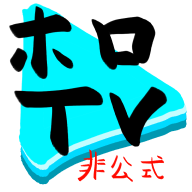
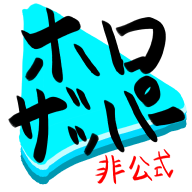
holozap

diff --git a/holo-tv/index.html b/holo-tv/index.html
@@ -5,7 +5,7 @@
 <link rel="apple-touch-icon" href="icon.png">
     <meta charset="UTF-8">
     <meta name="viewport" content="width=device-width, initial-scale=1.0, maximum-scale=1.0, user-scalable=no, viewport-fit=cover">
-    <title>ホロメンTV ver1.0.5|非公式ホロライブJPメンバー専用TV風アプリ</title>
+    <title>ホロメンザッパー ver1.0.7|試験アプデ継続中|非公式ホロライブJPメンバー専用TV風アプリ</title>
     <meta name="description" content="hololiveJPメンバーに限定したシンプル非公式TV風アプリ。視聴と番組表機能。">
 <style>
         :root {
@@ -125,8 +125,10 @@
             height: 100px; background: #200; border-bottom: 2px solid #f33; padding: 8px; font-size: 10px; cursor: pointer;
             overflow: hidden; display: flex; align-items: center; justify-content: center; text-align: center; font-weight: bold;
         }
-        .now-stream-box.member { background: #003311; border-bottom-color: #00ff66; color: #00ff66; }
-        .now-stream-box.empty { background: #111; border-bottom-color: #333; color: #444; }
+        .now-stream-box.member { background: #003311; border-bottom-color: #00ff66;  }
+        .now-stream-box.singing { background: #33001a; border-bottom-color: #ff69b4;  }
+        .now-stream-box.live3d { background: #332a00; border-bottom-color: #ffd700;  }
+        .now-stream-box.empty { background: #111; border-bottom-color: #333;  }
 
         /* 5. 配信予定エリアの背景グリッド：線の重なりを解消 */
         #epg-grid-body { position: relative; margin-left: var(--time-w); background: #0f0f0f; min-height: 2880px; }
@@ -162,27 +164,27 @@
         }
 .stream-card {
     position: absolute;
-    width: calc(var(--ch-width) - 4px); /* 左右余白を各2pxに */
+    width: calc(var(--ch-width) - 4px);
     margin: 0 2px;
-    
-    /* 縦60pxのグリッドに対して、58pxでほぼフル活用 */
     height: 58px; 
-    
-    /* 上下のパディングをさらに削る（2pxあれば十分） */
     padding: 2px 4px; 
-    
     border-radius: 2px;
     font-size: 9px;
     line-height: 1.1;
     cursor: pointer;
     background: #222;
-    border-left: 3px solid var(--accent); /* ホロライブカラーの縦棒 */
+    border-left: 3px solid #f33; /* デフォルトを赤に */
     color: #eee;
     overflow: hidden;
     box-shadow: 0 2px 5px rgba(0,0,0,0.5);
     z-index: 10;
     word-break: break-all;
 }
+
+/* 配信種別ごとの色分け */
+.stream-card.member { border-left-color: #00ff66; }  /* メンバー限定: 緑 */
+.stream-card.live3d { border-left-color: #ffd700; }  /* 3Dライブ: 黄 */
+.stream-card.singing { border-left-color: #ff69b4; } /* 歌枠: ピンク */
 
         /* --- 透明ガードの統合設定 --- */
         
@@ -258,7 +260,7 @@
 </div>
 <script>
 const GAS_URL = "https://script.google.com/macros/s/AKfycbzBS93O5OnbG4FiQzCT0Vuf_Y6kxKxIBu6Kb4gQsNbdS5YZzgD1eCtKL29Vm0trtGPlVA/exec";
-    const ALLOWED_GENS = ["0th Gen", "1st Gen", "2nd Gen", "Gamers", "3rd Gen", "4th Gen", "5th Gen", "6th Gen", "Secret Society holoX", "DEV_IS ReGLOSS", "DEV_IS FLOW\\s?GLOW"];
+    const ALLOWED_GENS = ["Official","0th Gen", "1st Gen", "2nd Gen", "Gamers", "3rd Gen", "4th Gen", "5th Gen", "6th Gen", "Secret Society holoX", "DEV_IS ReGLOSS", "DEV_IS FLOW\\s?GLOW"];
     
     let cachedData, orderedIds = [], channels = {}, currentVideoId = "";
     let isFirstPlay = true;
@@ -367,11 +369,32 @@ data.forEach(s => {
         });
 
         const nowBox = document.createElement('div');
-        const member = live && checkMemberOnly(live.title);
-        nowBox.className = 'now-stream-box' + (live ? (member ? ' member' : '') : ' empty');
-const displayTitle = live ? truncate(live.title, 40) : '---';
-nowBox.innerHTML = (live && member ? '🔒 ' : '') + displayTitle;
-        if (live) nowBox.onclick = () => play(live.id, ch.info.name, live.title, member);
+        let nowBoxClass = 'now-stream-box';
+        let isMember = false;
+        let displayTitle = '---';
+        let prefix = '';
+
+        if (live) {
+            isMember = checkMemberOnly(live.title);
+            const titleLower = live.title.toLowerCase();
+            
+            if (isMember) {
+                nowBoxClass += ' member';
+                prefix = '🔒 ';
+            } else if (live.topic_id === '3d_stream' || titleLower.includes('3d') || titleLower.includes('３ｄ')) {
+                nowBoxClass += ' live3d';
+            } else if (live.topic_id === 'singing' || titleLower.includes('歌枠') || titleLower.includes('sing') || titleLower.includes('karaoke')) {
+                nowBoxClass += ' singing';
+            }
+            
+            displayTitle = truncate(live.title, 40);
+            nowBox.onclick = () => play(live.id, ch.info.name, live.title, isMember);
+        } else {
+            nowBoxClass += ' empty';
+        }
+
+        nowBox.className = nowBoxClass;
+        nowBox.innerHTML = prefix + displayTitle;
         
         col.appendChild(nameBox);
         col.appendChild(nowBox);
@@ -393,6 +416,18 @@ nowBox.innerHTML = (live && member ? '🔒 ' : '') + displayTitle;
 
                 const card = document.createElement('div');
                 card.className = 'stream-card';
+                
+                // --- ここから追加：配信タイプに応じてクラスを付与 ---
+                const titleLower = s.title.toLowerCase();
+                if (checkMemberOnly(s.title)) {
+                    card.classList.add('member');
+                } else if (s.topic_id === '3d_stream' || titleLower.includes('3d') || titleLower.includes('３ｄ')) {
+                    card.classList.add('live3d');
+                } else if (s.topic_id === 'singing' || titleLower.includes('歌枠') || titleLower.includes('sing') || titleLower.includes('karaoke')) {
+                    card.classList.add('singing');
+                }
+                // --- ここまで追加 ---
+
                 card.style.left = `${chX}px`;
                 card.style.top = `${topPos}px`;
                 card.style.height = `60px`;
